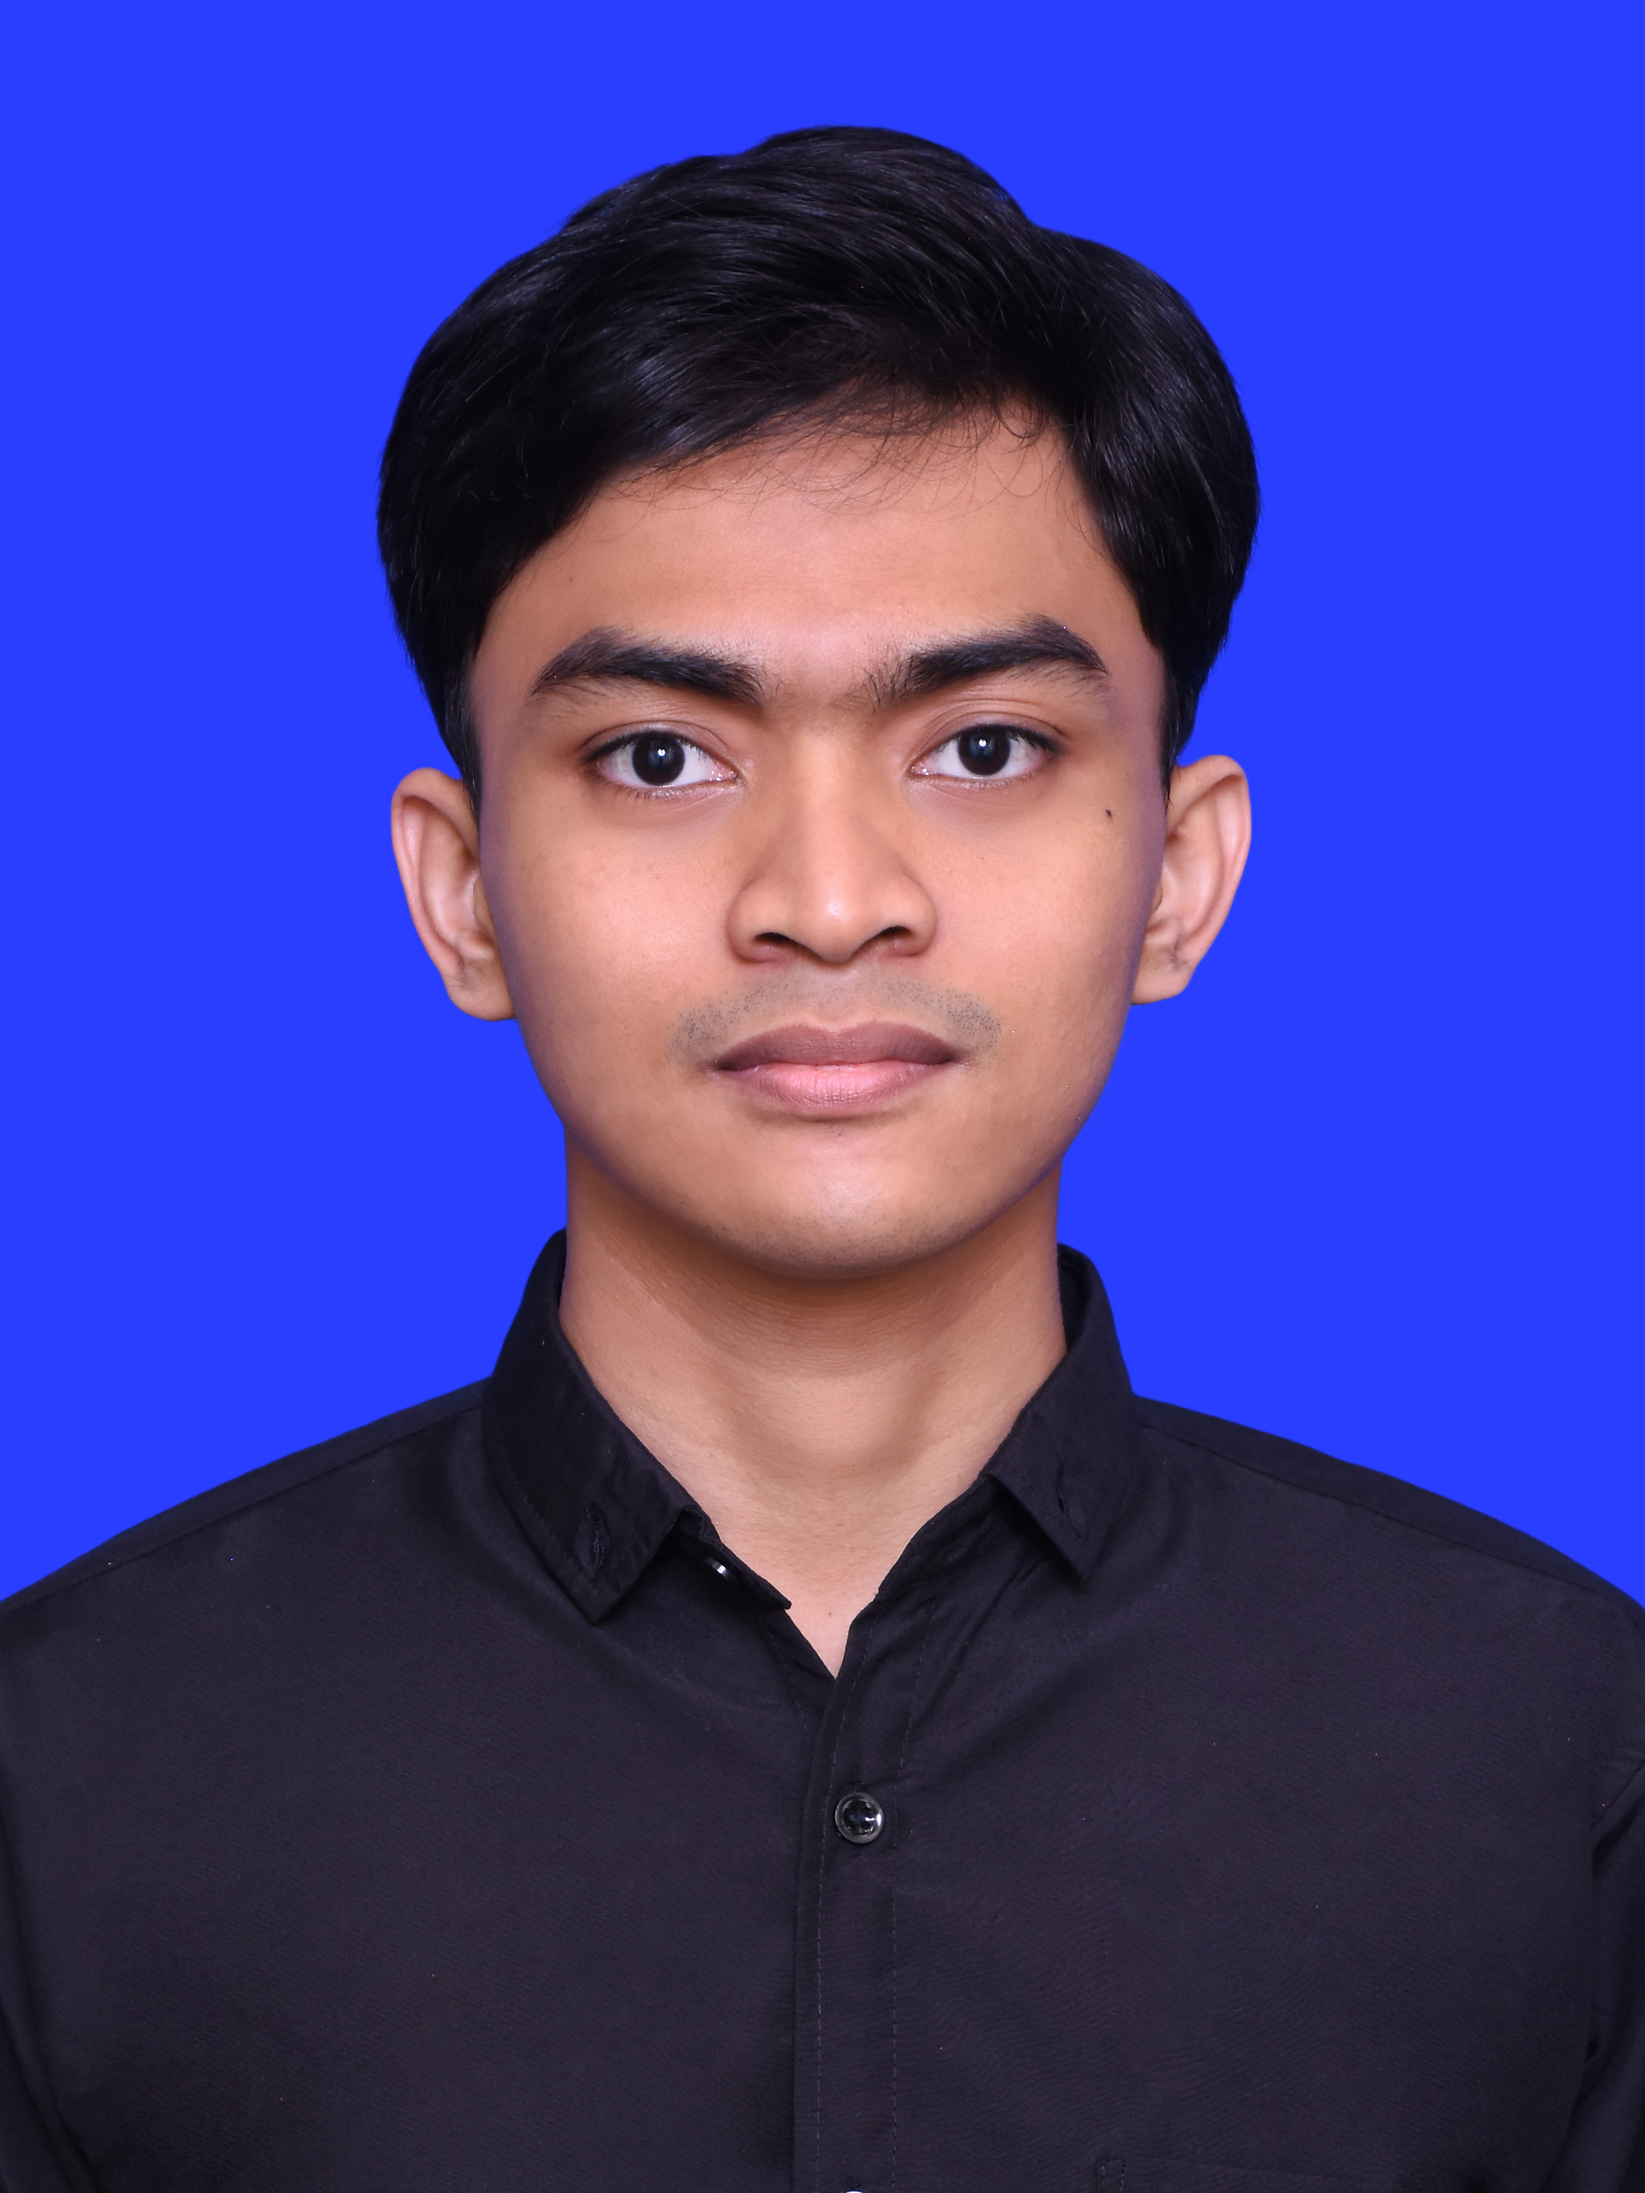
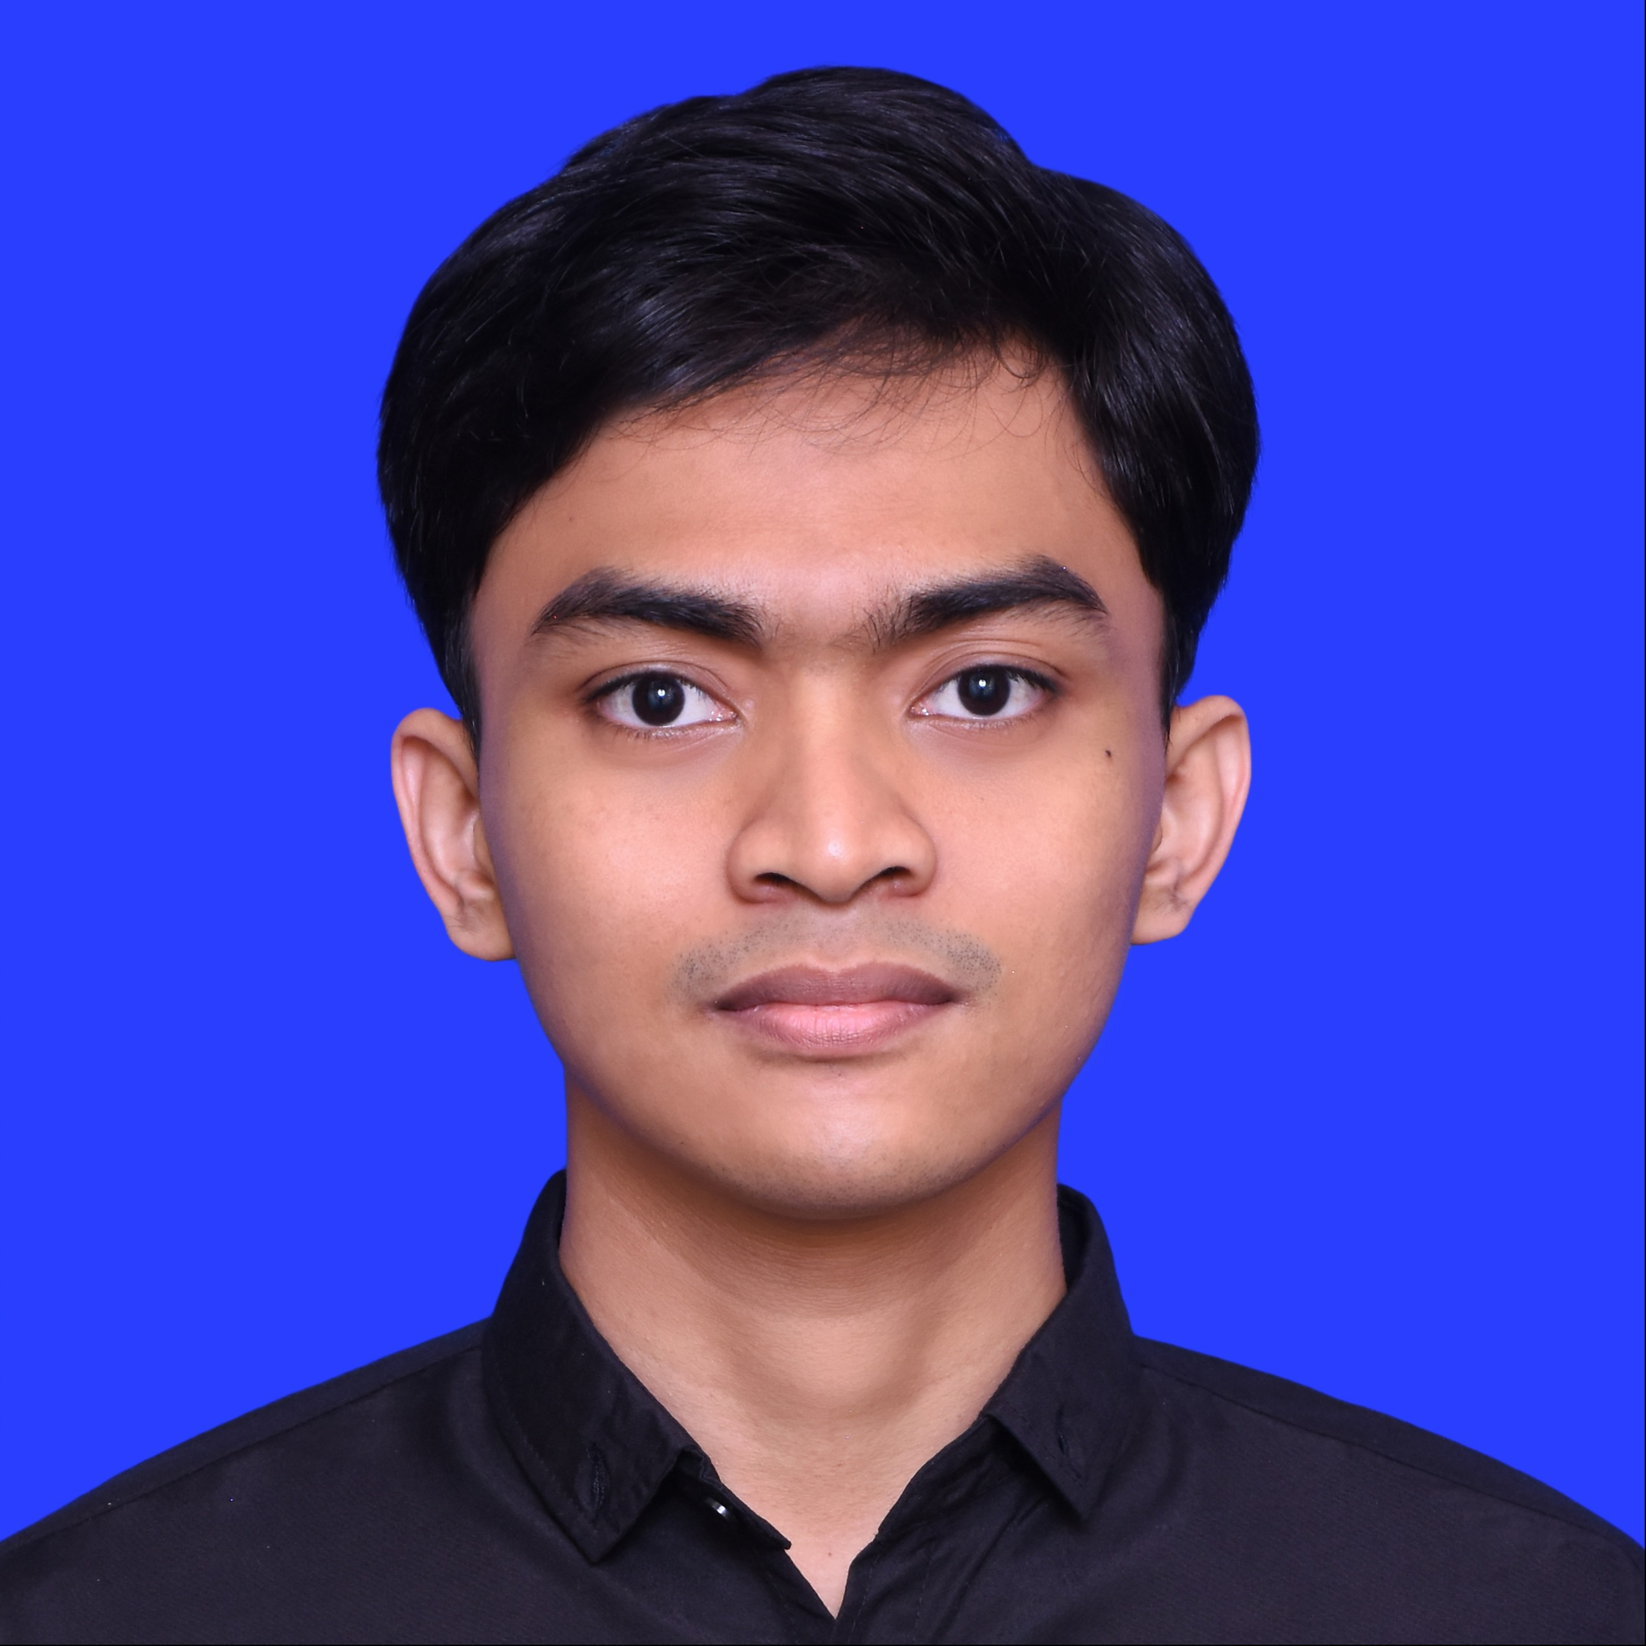
change profile

diff --git a/resources/views/profile.blade.php b/resources/views/profile.blade.php
@@ -2,7 +2,7 @@
 
 @section('container')
 
-<div class="clearfix">
+{{-- <div class="clearfix">
     <img src="{{ asset('img/' . $image) }}" class="col-md-4 float-md-end mb-3 ms-md-3 mt-3 img-thumbnail img-fluid rounded height-2000" alt="profile" max-width="50%" height="50%">
   
     <h1 class="text mt-3 mb-3">{{ $name }}</h1>
@@ -14,7 +14,175 @@
     <p>
         my passion
     </p>
-  </div>
+  </div> --}}
+
+  <section>
+    <div class="container py-5">
+      
+  
+      <div class="row">
+        <div class="col-lg-4">
+          <div class="card mb-4">
+            <div class="card-body text-center">
+              <img src="{{ asset('img/'. $image)}}" alt="avatar"
+                class="rounded-circle img-fluid" style="width: 200px; height: 200px">
+              <h5 class="my-3">Wisnu Dharmasatria Tantra</h5>
+              <p class="text-muted mb-1">Computer Science Student</p>
+              <p class="text-muted mb-4">Binus University</p>
+              <div class="d-flex justify-content-center mb-2">
+                {{-- <button  type="button" data-mdb-button-init data-mdb-ripple-init class="btn btn-primary">Follow</button> --}}
+                <button  type="button" data-mdb-button-init data-mdb-ripple-init class="btn btn-outline-primary ms-1">Contact</button>
+              </div>
+            </div>
+          </div>
+          <div class="card mb-4 mb-lg-0">
+            <div class="card-body p-0">
+              <ul class="list-group list-group-flush rounded-3">
+                <li class="list-group-item d-flex justify-content-between align-items-center p-3">
+                  <i class="fas fa-globe fa-lg text-warning"></i>
+                  <p class="mb-0">https://wisnu-portofolio-pghp.vercel.app/</p>
+                </li>
+                <li class="list-group-item d-flex justify-content-between align-items-center p-3">
+                  <i class="fab fa-github fa-lg text-body"></i>
+                  <p class="mb-0">mdbootstrap</p>
+                </li>
+                <li class="list-group-item d-flex justify-content-between align-items-center p-3">
+                  <i class="fab fa-twitter fa-lg" style="color: #55acee;"></i>
+                  <p class="mb-0">@mdbootstrap</p>
+                </li>
+                <li class="list-group-item d-flex justify-content-between align-items-center p-3">
+                  <i class="fab fa-instagram fa-lg" style="color: #ac2bac;"></i>
+                  <p class="mb-0">mdbootstrap</p>
+                </li>
+                <li class="list-group-item d-flex justify-content-between align-items-center p-3">
+                  <i class="fab fa-facebook-f fa-lg" style="color: #3b5998;"></i>
+                  <p class="mb-0">mdbootstrap</p>
+                </li>
+              </ul>
+            </div>
+          </div>
+        </div>
+        <div class="col-lg-8">
+          <div class="card mb-4">
+            <div class="card-body">
+              <div class="row">
+                <div class="col-sm-3">
+                  <p class="mb-0">Full Name</p>
+                </div>
+                <div class="col-sm-9">
+                  <p class="text-muted mb-0">Wisnu Dharmasatria Tantra</p>
+                </div>
+              </div>
+              <hr>
+              <div class="row">
+                <div class="col-sm-3">
+                  <p class="mb-0">Email</p>
+                </div>
+                <div class="col-sm-9">
+                  <p class="text-muted mb-0">mycollegeian@gmail.com</p>
+                </div>
+              </div>
+              <hr>
+              <div class="row">
+                <div class="col-sm-3">
+                  <p class="mb-0">Phone</p>
+                </div>
+                <div class="col-sm-9">
+                  <p class="text-muted mb-0">085156010935</p>
+                </div>
+              </div>
+              <hr>
+              <div class="row">
+                <div class="col-sm-3">
+                  <p class="mb-0">Gender</p>
+                </div>
+                <div class="col-sm-9">
+                  <p class="text-muted mb-0">Male</p>
+                </div>
+              </div>
+              <hr>
+              <div class="row">
+                <div class="col-sm-3">
+                  <p class="mb-0">Address</p>
+                </div>
+                <div class="col-sm-9">
+                  <p class="text-muted mb-0">Tangerang, Banten</p>
+                </div>
+              </div>
+            </div>
+          </div>
+          <div class="row">
+            <div class="col-md-6">
+              <div class="card mb-4 mb-md-0">
+                <div class="card-body">
+                  <p class="mb-4"><span class="text-primary font-italic me-1">assigment</span> Project Status
+                  </p>
+                  <p class="mb-1" style="font-size: .77rem;">Web Design</p>
+                  <div class="progress rounded" style="height: 5px;">
+                    <div class="progress-bar" role="progressbar" style="width: 80%" aria-valuenow="80"
+                      aria-valuemin="0" aria-valuemax="100"></div>
+                  </div>
+                  <p class="mt-4 mb-1" style="font-size: .77rem;">Website Markup</p>
+                  <div class="progress rounded" style="height: 5px;">
+                    <div class="progress-bar" role="progressbar" style="width: 72%" aria-valuenow="72"
+                      aria-valuemin="0" aria-valuemax="100"></div>
+                  </div>
+                  <p class="mt-4 mb-1" style="font-size: .77rem;">One Page</p>
+                  <div class="progress rounded" style="height: 5px;">
+                    <div class="progress-bar" role="progressbar" style="width: 89%" aria-valuenow="89"
+                      aria-valuemin="0" aria-valuemax="100"></div>
+                  </div>
+                  <p class="mt-4 mb-1" style="font-size: .77rem;">Mobile Template</p>
+                  <div class="progress rounded" style="height: 5px;">
+                    <div class="progress-bar" role="progressbar" style="width: 55%" aria-valuenow="55"
+                      aria-valuemin="0" aria-valuemax="100"></div>
+                  </div>
+                  <p class="mt-4 mb-1" style="font-size: .77rem;">Backend API</p>
+                  <div class="progress rounded mb-2" style="height: 5px;">
+                    <div class="progress-bar" role="progressbar" style="width: 66%" aria-valuenow="66"
+                      aria-valuemin="0" aria-valuemax="100"></div>
+                  </div>
+                </div>
+              </div>
+            </div>
+            <div class="col-md-6">
+              <div class="card mb-4 mb-md-0">
+                <div class="card-body">
+                  <p class="mb-4"><span class="text-primary font-italic me-1">assigment</span> Project Status
+                  </p>
+                  <p class="mb-1" style="font-size: .77rem;">Web Design</p>
+                  <div class="progress rounded" style="height: 5px;">
+                    <div class="progress-bar" role="progressbar" style="width: 80%" aria-valuenow="80"
+                      aria-valuemin="0" aria-valuemax="100"></div>
+                  </div>
+                  <p class="mt-4 mb-1" style="font-size: .77rem;">Website Markup</p>
+                  <div class="progress rounded" style="height: 5px;">
+                    <div class="progress-bar" role="progressbar" style="width: 72%" aria-valuenow="72"
+                      aria-valuemin="0" aria-valuemax="100"></div>
+                  </div>
+                  <p class="mt-4 mb-1" style="font-size: .77rem;">One Page</p>
+                  <div class="progress rounded" style="height: 5px;">
+                    <div class="progress-bar" role="progressbar" style="width: 89%" aria-valuenow="89"
+                      aria-valuemin="0" aria-valuemax="100"></div>
+                  </div>
+                  <p class="mt-4 mb-1" style="font-size: .77rem;">Mobile Template</p>
+                  <div class="progress rounded" style="height: 5px;">
+                    <div class="progress-bar" role="progressbar" style="width: 55%" aria-valuenow="55"
+                      aria-valuemin="0" aria-valuemax="100"></div>
+                  </div>
+                  <p class="mt-4 mb-1" style="font-size: .77rem;">Backend API</p>
+                  <div class="progress rounded mb-2" style="height: 5px;">
+                    <div class="progress-bar" role="progressbar" style="width: 66%" aria-valuenow="66"
+                      aria-valuemin="0" aria-valuemax="100"></div>
+                  </div>
+                </div>
+              </div>
+            </div>
+          </div>
+        </div>
+      </div>
+    </div>
+  </section>
     
 @endsection
     
